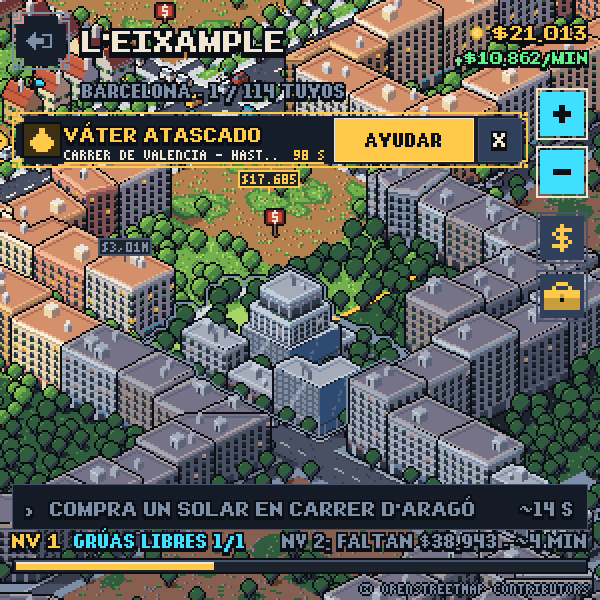
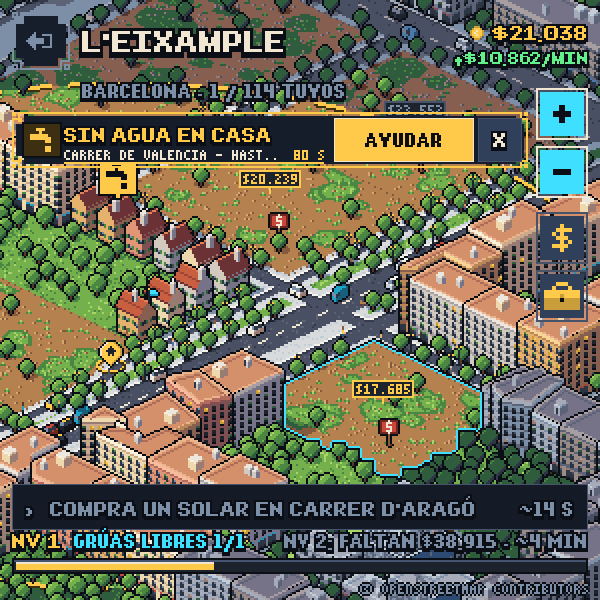
Pipes job in the docs and the screenshots for Oscar
CLAUDE.md and GAMEPLAY.md describe "Sin agua en casa" instead of the toilet.
docs/screenshots/events: the job banner, 04-06_tuberias_* (start, mid-play,
result) instead of the 04-06_vater_* shots, pipes.gif (a board solved), and
minijuegos.png rebuilt with the pipes. Real Barcelona data.

Claude-Session: https://claude.ai/code/session_01NbsGb8LmPHM5TSczA1ajDg

diff --git a/CLAUDE.md b/CLAUDE.md
@@ -178,9 +178,20 @@ calls (`press`/`click`/`drag`/`hover`/`wheel`/`back`) in canvas coordinates.
   far, back on the intro leaves the job waiting. `paused` + `run(dt)` let tools step it.
 - `minigames/` - `job_game.gd` (`JobGame`, base: own clock, `limit` = `Economy.JOB_S`, score 0..1,
   `press` / `click` / `drag`, rising pops, pixel `sprite` / `inked` / `thick` helpers, seeded
-  rng), `plunge_game.gd` (`PlungeGame`, "Váter atascado": a marker sweeps a gauge, push in the
-  gold zone `GOAL` (6) times; it speeds up and the zone narrows, never under a tenth of a second
-  in it; a miss waits `MISS_WAIT`, so mashing loses), `wires_game.gd` (`WiresGame`, "Sin luz en
+  rng, `outro()` = how long the end shows before the result, JobPanel waits for it),
+  `pipes_game.gd` (`PipesGame`, "Sin agua en casa"; it replaced the toilet job, Oscar: a 5x4
+  board of pipe pieces (80 px tiles) between the water main (left, red wheel) and the tenant's
+  sink (right); a tap turns a piece a quarter clockwise; water runs from the main through every
+  piece joined to it (`flow_of`, filling at `FLOW` pieces a second, dripping from open ends) and,
+  once the main reaches the sink, on into the basin ("¡AGUA!"; the game ends at the join, the
+  water keeps running in its `outro`). The board: a random run of `LEN_MIN`..`LEN_MAX` straights
+  and elbows from the main to the sink with at least `WAYS_MIN` bits of ways to lie (so random
+  taps hardly ever find it), the rest straights, elbows and tees at random, then every piece of
+  the run turned wrong within `TURNS_MAX` taps, the first one shut to the main; boards that
+  sweeping every tile in turn (rows, columns, backwards, four rounds) would join are scrambled
+  again (`_mash_safe`). Score 1 joined, else `PART` (0.9) x the share of the run the water
+  reaches; idle = 0. A save's "plunge" job or `last_game` becomes "pipes" (`Events.sanitize`)),
+  `wires_game.gd` (`WiresGame`, "Sin luz en
   casa": 4 wires to their sockets in a shuffled order, click-click either way or drag over the
   socket; colours plus shapes), `bulbs_game.gd` (`BulbsGame`, "Bombillas fundidas": a facade at
   night, tap the dark windows; more go out at `BURNS`, each flickering first). Every hit box is
@@ -553,8 +564,8 @@ the office's rent; on load it becomes the free solar `{t: OFFICE_LOT_TIER, fill:
 office's rent is its `office_income`, so a migrated game earns the same.
 v3 adds `events` {wait (active s to the next), n, pending {office id: {n, kind (sale | express |
 vip | buyer | job), office, lot, left / life (active s), seed, minutes (reserved), cut, secs, x,
-game (plunge | wires | bulbs)}}, budget (minutes), budget_t, last_game, log [{n, kind, how, paid,
-t, game?, score?}], stats {spawned, taken, expired, dismissed, paid, jobs, jobs_won,
+game (pipes | wires | bulbs; an old "plunge" loads as pipes)}}, budget (minutes), budget_t,
+last_game, log [{n, kind, how, paid, t, game?, score?}], stats {spawned, taken, expired, dismissed, paid, jobs, jobs_won,
 express_saved}}, an office's `express` (unix s an accepted exprés lasts until) and a lot's `vip`
 (unix s) + `vx` (rent multiplier); a v2 save gets `events` fresh; `Events.sanitize` drops odd
 ones.
@@ -631,10 +642,12 @@ list Barcelona's pin opens (its office row must open the office), Tokyo, the cit
 back, the 200 px window; last the events (`8N_event_*` / `8N_job_*`, numbered from 80, made to
 order in the first office: a flash sale's banner and the lot it opens, a job's banner, each
 minigame's intro, mid-play and result through the real input path with its clock stepped by
-hand, the wires solved frame by frame into `events_gif/NNN.png`, a VIP's star, the 200 px window
+hand, the pipes and the wires solved frame by frame into `pipes_gif/NNN.png` and
+`events_gif/NNN.png`, a VIP's star, the 200 px window
 with a banner; `Events.auto` is off for the whole capture, so events never pop up in the other
 shots). `docs/screenshots/events/` holds the best ones for Oscar on real Barcelona data and
-`wires.gif` (`ffmpeg -framerate 12 -i events_gif/%03d.png` with a palette). Leave Valencia out
+`wires.gif` / `pipes.gif` (`ffmpeg -framerate 12 -i events_gif/%03d.png` or `pipes_gif/%03d.png`,
+cropped to 600x540, halved with nearest and a palette). Leave Valencia out
 of `--spot`. Extra args: `--fixture`, `--fresh` (also re-download city maps;
 offices are always wiped first), `--spot=city:lat:lon` (repeatable, replaces the places),
 `--raw-cache=DIR`. Under Xvfb a `WARNING: Could not set V-Sync mode` line is normal.
@@ -678,8 +691,10 @@ builds a tower there through the one-lot redraw and fails if any pixel of the ca
 through time away, expiry, the pace, determinism, every kind turning up, each offer's effect -
 a sale's price, an exprés's half time and its window, a VIP's extra to the second, a buyer's
 cash, a job's pay by score and only once - the hourly cap, the event traits, the three
-minigames played well, badly and by mashing, and saves of pending events and timed effects, a
-v2 save and malformed event data) (buy, build, multi-tier, rent, level up and
+minigames played well, badly and by mashing (the pipes over 400 boards: each has a way, starts
+dry and a decent player joins it in time; tapping every tile in turn never joins it, random
+taps at most 1 %; half a job scores in between), and saves of pending events and timed effects,
+a v2 save, a toilet job from an old save turned pipes and malformed event data) (buy, build, multi-tier, rent, level up and
 the free manager, saves, time away and its cap, clock moved back and forth, a broken save, the
 bank's limits and an adversarial max-loan + lost income + week away, managers, the builder, the
 office's free lot built like any other and its income by level, a v1 save migrated on load).

diff --git a/docs/GAMEPLAY.md b/docs/GAMEPLAY.md
@@ -245,12 +245,17 @@ medias, en proporción; aunque salga mal, el **15 %**. Nunca se pierde nada: vol
 el encargo con lo hecho y cobra. Duran **15 s** (con un "¡YA!" antes, para que el toque de EMPEZAR
 no cuente). Nunca sale el mismo minijuego dos veces seguidas. Al final, de una a tres estrellas.
 
-- **Váter atascado**: una marca va y viene por una barra; pulsa (en cualquier sitio o en
-  ¡EMPUJA!) cuando pase por la zona dorada. 6 aciertos lo desatascan: el desatascador baja, el
-  agua marrón baja y se aclara ("¡GLUB!") y al final tira de la cadena. Fallar salpica ("¡CHOF!")
-  y el desatascador tarda 0,7 s en estar listo: aporrear no sirve. Cada acierto la zona se
-  estrecha y la marca acelera, sin pasar de una décima de segundo en la zona: pide ritmo, no
-  reflejos.
+- **Sin agua en casa** (sustituye al váter atascado, que Oscar quitó): un tablero de 5x4 piezas
+  de tubería entre la llave de paso (a la izquierda, con su rueda roja) y el lavabo del inquilino
+  (a la derecha). Toca una pieza para girarla un cuarto de vuelta. El agua corre desde la llave
+  por todas las piezas unidas a ella, así que se ve hasta dónde llega, y gotea por los extremos
+  abiertos. Al unir la llave con el lavabo el agua cae en él con un "¡AGUA!" y se acaba. El
+  tablero sale de un camino al azar de 7 a 9 piezas (rectas y codos) de la llave al lavabo, el
+  resto relleno al azar (rectas, codos y tes), y todas las piezas del camino giradas mal: siempre
+  tiene solución, se arregla con 13 toques como mucho (un jugador normal tarda unos 5-9 s) y al
+  empezar no corre nada. Aporrear no sirve: girar todas las piezas por orden nunca lo resuelve
+  (se comprueba al hacer el tablero) y tocar al azar casi nunca. Si se acaba el tiempo, cobra en
+  proporción a lo lejos que llega el agua por el camino (hasta un 90 %).
 - **Sin luz en casa**: un cuadro eléctrico con 4 cables de colores a la izquierda y sus enchufes
   desordenados a la derecha, como en Among Us. Toca un cable y luego su enchufe (o al revés), o
   **arrástralo** hasta él; uno equivocado parpadea en rojo y el cable sigue en tu mano. Cada color
